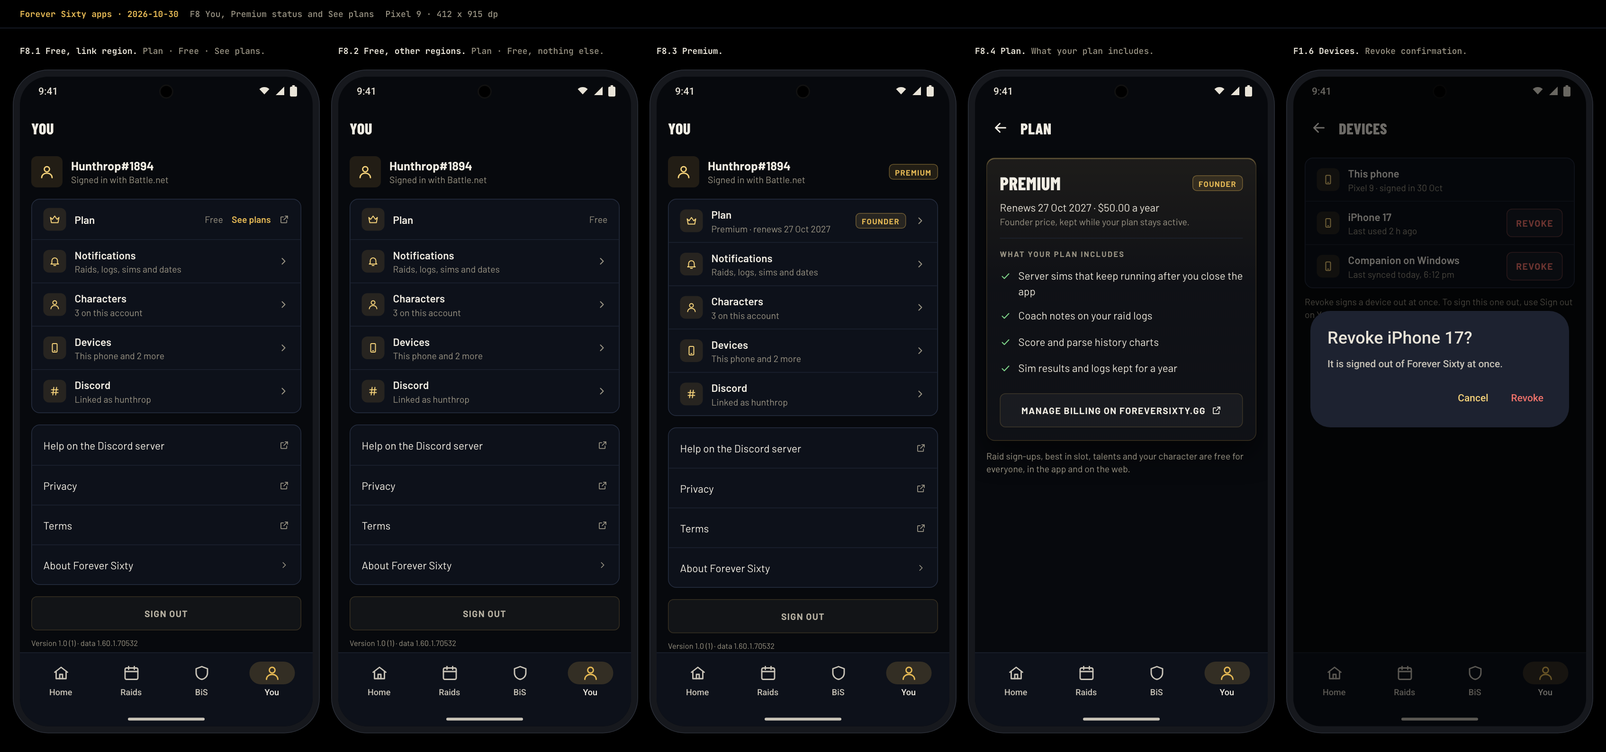
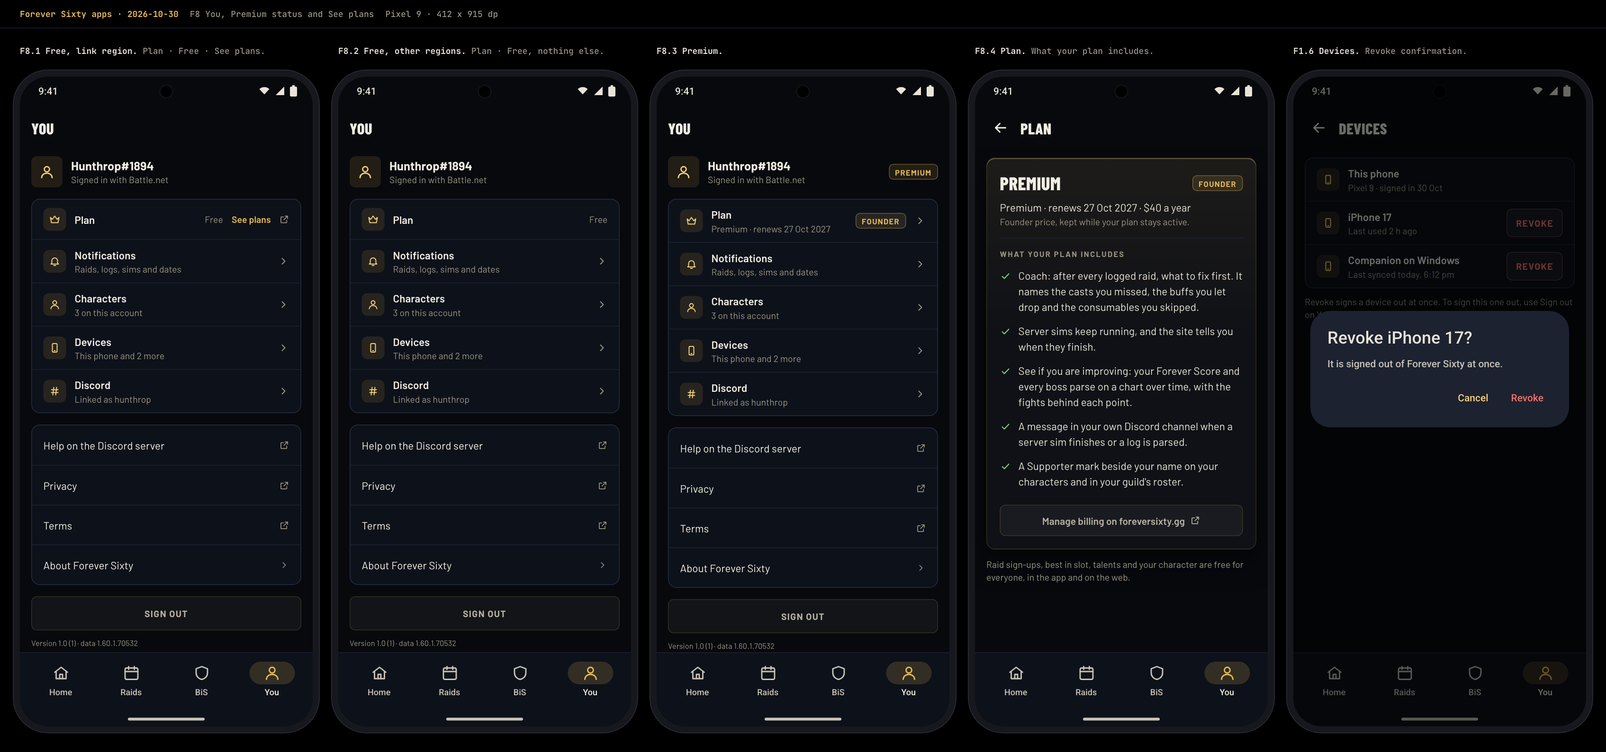
docs(mobile): F8 Premium build notes and boards, SHIP from both reviewers
Spec 5.8.1 settles the Plan row and the Plan card per premium source in the
site's words, the fail-closed link region, largest text and screen-reader
labels. The includes list is /premium's own lines after the wow-player hold.

Changed region(s): [[0.6195, 0.3392, 0.7743, 0.6476], [0.6504, 0.6784, 0.7434, 0.7093], [0.6195, 0.7401, 0.7124, 0.7709]]

diff --git a/design/mocks/2026-10-30-mobile-apps/screens_more.py b/design/mocks/2026-10-30-mobile-apps/screens_more.py
@@ -309,12 +309,11 @@ def you(plat: str, plan: str = "free-link") -> str:
 
 
 def plan_detail(plat: str, link_region: bool = True) -> str:
-    feats = ["Server sims that keep running after you close the app", "Coach notes on your raid logs", "Score and parse history charts", "Sim results and logs kept for a year"]
-    rows = "".join(f"<div style=\"display:flex;gap:10px;padding:6px 0\" class=\"t-body\"><span class=\"kill\" style=\"margin-top:3px\">{glyph('check', 16)}</span>{f}</div>" for f in feats)
-    manage = ("<span class=\"btn btn-secondary full\" style=\"margin-top:16px\">Manage billing on foreversixty.gg" + glyph('external', 14) + "</span>" if link_region
-              else "<div class=\"t-meta muted\" style=\"margin-top:16px\">Billing is managed on the web.</div>")
+    rows = "".join(f"<div style=\"display:flex;gap:10px;padding:6px 0\" class=\"t-body\"><span class=\"kill\" style=\"margin-top:3px\">{glyph('check', 16)}</span>{f}</div>" for f in FEATS)
+    manage = ("<span class=\"btn btn-secondary full\" style=\"margin-top:16px;min-height:44px;height:44px;text-transform:none;letter-spacing:0;font:600 14px Barlow,sans-serif;color:var(--nav)\">Manage billing on foreversixty.gg" + glyph('external', 14) + "</span>" if link_region
+              else "<div class=\"t-meta muted\" style=\"margin-top:16px\">Billing is managed on foreversixty.gg.</div>")
     inner = (f"<div class=\"card\" style=\"margin:10px 16px 0;padding:18px\"><div style=\"display:flex;justify-content:space-between;align-items:center\"><span class=\"cond t-h2\">Premium</span><span class=\"tag tag-gold\">Founder</span></div>"
-             f"<div class=\"t-body\" style=\"margin-top:6px\">Renews 27 Oct 2027 · $50.00 a year</div><div class=\"t-meta muted\">Founder price, kept while your plan stays active.</div>"
+             f"<div class=\"t-body\" style=\"margin-top:6px\">Premium · renews 27 Oct 2027 · $40 a year</div><div class=\"t-meta muted\">Founder price, kept while your plan stays active.</div>"
              f"<div style=\"height:1px;background:var(--line-soft);margin:14px 0\"></div><div class=\"t-micro micro\">What your plan includes</div><div style=\"margin-top:6px\">{rows}</div>{manage}</div>"
              f"<div class=\"t-meta muted pad\" style=\"margin-top:12px\">Raid sign-ups, best in slot, talents and your character are free for everyone, in the app and on the web.</div>")
     return pushed(plat, "You", "Plan", inner, "You")
@@ -341,3 +340,74 @@ def devices(plat: str, confirm: bool = False) -> str:
                        "<div style=\"display:flex;justify-content:flex-end;gap:8px;margin-top:22px;font:500 14px Roboto\"><span style=\"padding:10px 12px;color:#f5d27a\">Cancel</span><span style=\"padding:10px 12px;color:#f0736b\">Revoke</span></div></div>")
     return pushed(plat, "You", "Devices", inner, "You", overlay=overlay)
 
+
+
+# ---------- F8 build boards (spec 5.8.1) ----------
+
+FEATS = ["Coach: after every logged raid, what to fix first. It names the casts you missed, the buffs you let drop and the consumables you skipped.",
+         "Server sims keep running, and the site tells you when they finish.",
+         "See if you are improving: your Forever Score and every boss parse on a chart over time, with the fights behind each point.",
+         "A message in your own Discord channel when a server sim finishes or a log is parsed.",
+         "A Supporter mark beside your name on your characters and in your guild's roster."]
+
+
+def _chev(plat: str = "ios") -> str:
+    return f"<span class=\"chev\">{glyph('chev-right', 16)}</span>"
+
+
+def _plan_row(state: str, xl: bool) -> str:
+    """The Plan row. state: free-link, free-other, own."""
+    sub = {"free-link": "Free", "free-other": "Free", "own": "Premium · renews 27 Oct 2027"}[state]
+    founder = "<span class=\"tag tag-gold\">Founder</span>" if state == "own" else ""
+    see = f"<span class=\"t-meta gold\" style=\"font-weight:600;display:inline-flex;gap:4px;align-items:center\">See plans{glyph('external', 14)}</span>"
+    if xl:
+        lines = f"<div class=\"t-body strong\" style=\"font-weight:600\">Plan</div><div class=\"t-meta muted\">{sub}</div>"
+        lines += (f"<div style=\"margin-top:6px\">{founder}</div>" if founder else "")
+        lines += (f"<div style=\"margin-top:6px\">{see}</div>" if state == "free-link" else "")
+        trail = _chev() if state == "own" else (f"<span class=\"chev gold\">{glyph('external', 14)}</span>" if False else "")
+        return f"<div class=\"lrow\" style=\"align-items:flex-start\">{tile('crown', 32)}<div class=\"t\">{lines}</div>{trail}</div>"
+    if state == "own":
+        return (f"<div class=\"lrow\">{tile('crown', 32)}<div class=\"t\"><div class=\"t-body strong\" style=\"font-weight:600\">Plan</div><div class=\"t-meta muted\">{sub}</div></div>{founder}{_chev()}</div>")
+    trail = f"{see}" if state == "free-link" else ""
+    return (f"<div class=\"lrow\">{tile('crown', 32)}<div class=\"t t-body strong\" style=\"font-weight:600\">Plan</div><span class=\"val t-meta\">Free</span>{trail}</div>")
+
+
+def you_build(plat: str, state: str, xl: bool = False, premium_tag: bool = False) -> str:
+    rows = [("bell", "Notifications", "Raids, logs, sims and dates"), ("user", "Characters", "3 on this account"),
+            ("devices", "Devices", "This " + ("iPhone" if plat == "ios" else "phone") + " and 2 more"), ("hash", "Discord", "Linked as hunthrop")]
+    body = _plan_row(state, xl) + "".join(
+        f"<div class=\"lrow\" style=\"{'align-items:flex-start' if xl else ''}\">{tile(g, 32)}<div class=\"t\"><div class=\"t-body strong\" style=\"font-weight:600\">{lab}</div><div class=\"t-meta muted\">{sub}</div></div>{_chev()}</div>"
+        for g, lab, sub in rows)
+    more = "".join(f"<div class=\"lrow\"><div class=\"t t-body\" style=\"color:var(--strong)\">{t}</div><span class=\"chev\">{glyph('external' if ext else 'chev-right', 14)}</span></div>"
+                   for t, ext in [("Help on the Discord server", True), ("Privacy", True), ("Terms", True), ("About Forever Sixty", False)])
+    tag = "<span class=\"tag tag-gold\">Premium</span>" if premium_tag else ""
+    stack = "flex-direction:column;align-items:flex-start;" if xl else "align-items:center;"
+    head_ = (f"<div class=\"pad\" style=\"display:flex;gap:12px;{stack}margin-top:8px\">{tile('user', 44)}<div style=\"flex:1;min-width:0;max-width:100%\">"
+             f"<div class=\"t-name strong\" style=\"font-weight:700;overflow-wrap:anywhere\">{ME['battletag']}</div><div class=\"t-meta muted\">Signed in with Battle.net</div></div>{tag}</div>")
+    inner = (head_ + f"<div class=\"card quiet\" style=\"margin:16px 16px 0\">{body}</div><div class=\"card quiet\" style=\"margin:16px 16px 0\">{more}</div>"
+             "<div class=\"pad\" style=\"margin-top:16px\"><span class=\"btn btn-secondary full\" style=\"color:var(--nav)\">Sign out</span></div>")
+    top = content_top(plat)
+    title = "<div class=\"cond t-title pad\" style=\"margin-top:4px\">You</div>" if plat == "ios" else ""
+    bar = top_bar(plat, "<span class=\"cond\" style=\"font-size:22px;padding-left:4px\">You</span>" if plat == "and" else "<span></span>")
+    return device(plat, bar + f"<div style=\"padding-top:{top}px\">{title}{inner}</div>", "You", xl=xl)
+
+
+def plan_build(plat: str, source: str, link: bool) -> str:
+    """F8.4. source: own or seat."""
+    own = source == "own"
+    tag = "<span class=\"tag tag-gold\">Founder</span>" if own else ""
+    line = "Premium · renews 27 Oct 2027 · $40 a year" if own else "Premium · a seat from OLYMPUS XXVII"
+    second = ("Founder price, kept while your plan stays active." if own
+              else "Given by Hunthrop#1894. It lasts while the guild's plan does; nothing is billed to you.")
+    rows = "".join(f"<div style=\"display:flex;gap:10px;padding:6px 0\" class=\"t-body\"><span class=\"kill\" style=\"margin-top:3px\">{glyph('check', 16)}</span>{f}</div>" for f in FEATS)
+    if not own:
+        control = ""
+    elif link:
+        control = "<span class=\"btn btn-secondary full\" style=\"margin-top:16px;min-height:44px;height:44px;text-transform:none;letter-spacing:0;font:600 14px Barlow,sans-serif;color:var(--nav)\">Manage billing on foreversixty.gg" + glyph('external', 14) + "</span>"
+    else:
+        control = "<div class=\"t-meta muted\" style=\"margin-top:16px\">Billing is managed on foreversixty.gg.</div>"
+    inner = (f"<div class=\"card\" style=\"margin:10px 16px 0;padding:18px\"><div style=\"display:flex;justify-content:space-between;align-items:center\"><span class=\"cond t-h2\">Premium</span>{tag}</div>"
+             f"<div class=\"t-body\" style=\"margin-top:6px\">{line}</div><div class=\"t-meta muted\">{second}</div>"
+             f"<div style=\"height:1px;background:var(--line-soft);margin:14px 0\"></div><div class=\"t-micro micro\">What your plan includes</div><div style=\"margin-top:6px\">{rows}</div>{control}</div>"
+             "<div class=\"t-meta muted pad\" style=\"margin-top:12px\">Raid sign-ups, best in slot, talents and your character are free for everyone, in the app and on the web.</div>")
+    return pushed(plat, "You", "Plan", inner, "You")

diff --git a/design/mocks/2026-10-30-mobile-apps/gen_mobile_apps.py b/design/mocks/2026-10-30-mobile-apps/gen_mobile_apps.py
@@ -97,6 +97,14 @@ def boards(p: str) -> dict[str, tuple[str, list[str]]]:
             cell("<b>F8.3 Premium.</b>", M.you(p, "premium")),
             cell("<b>F8.4 Plan.</b> What your plan includes.", M.plan_detail(p)),
             cell("<b>F1.6 Devices.</b> Revoke confirmation.", M.devices(p, confirm=True))]),
+        f"f8-build-{p}": ("F8 build: Plan row, link region and Plan card (spec 5.8.1)", [
+            cell("<b>F8.1 Free, US.</b> Plan · Free · See plans; the row opens the browser.", M.you_build(p, "free-link")),
+            cell("<b>F8.2 Free, GB.</b> Plan · Free. No chevron, no button.", M.you_build(p, "free-other")),
+            cell("<b>F8.3 Premium, own, founder.</b> Gold Premium tag; row sub without the price.", M.you_build(p, "own", premium_tag=True)),
+            cell("<b>F8.4 Plan, US.</b> Full site line with price; Manage billing.", M.plan_build(p, "own", True)),
+            cell("<b>F8.4 Plan, GB.</b> Billing is managed on the web.", M.plan_build(p, "own", False)),
+            cell("<b>F8.4 A seat.</b> No billing control, no founder.", M.plan_build(p, "seat", True)),
+            cell("<b>F8.1 Free, US, largest text.</b> " + ("AX5" if p == "ios" else "Font scale 2.0") + ": the row stacks, See plans on its own line.", M.you_build(p, "free-link", xl=True))]),
         f"xl-{p}": ("Largest text: " + ("iOS AX5" if p == "ios" else "Android font scale 2.0"), [
             cell("<b>XL.1 Home.</b> Gains move under the name; three rows.", H.home(p, xl=True)),
             cell("<b>XL.2 Raid page.</b> Segments become a 2 x 2 grid.", R.raid_detail(p, xl=True)),

diff --git a/design/specs/2026-10-30-mobile-apps.md b/design/specs/2026-10-30-mobile-apps.md
@@ -651,15 +651,12 @@ Pushed from Home.
 | Account | Link region (F8.1) | Elsewhere (F8.2) |
 |---|---|---|
 | Free | `Plan` · `Free` · gold `See plans` with the external glyph; the row opens `https://foreversixty.gg/premium` in the default browser (iOS `openURL`, Android `ACTION_VIEW`), not an in-app web view | `Plan` · `Free`. No chevron, not a button, no screen behind it. No other Premium word anywhere in the app |
-| Premium (any source) | `Plan` · `Premium · renews {date}` (or the site's other plan lines) · `Founder` tag when founder; pushes F8.4 | Same row and screen; F8.4's billing button becomes the meta line `Billing is managed on the web.` |
+| Premium (any source) | `Plan` · `Premium · renews {date}` (or the site's other plan lines) · `Founder` tag when founder; pushes F8.4 | Same row and screen; F8.4's billing button becomes the meta line `Billing is managed on foreversixty.gg.` |
 
 ### F8.4 Plan
-- Card: `Premium` (`h2`) with `Founder`; the plan line (`Renews 27 Oct 2027 · $50.00 a year`, the site's `accountPlanCopy`); the founder line.
+- Card: `Premium` (`h2`) with `Founder`; the site's full plan line (`Premium · renews 27 Oct 2027 · $40 a year`, §5.8.1); the founder line.
 - `micro` `What your plan includes`, then kill-checked lines from the entitlements that are true:
-  - `Server sims that keep running after you close the app`;
-  - `Coach notes on your raid logs`;
-  - `Score and parse history charts`;
-  - `Sim results and logs kept for a year`.
+  - /premium's own Premium-column lines for the flags that are true (§5.8.1).
 - Link region only: secondary `Manage billing on foreversixty.gg`, which opens the browser.
 - A seat reads `A seat from {guild}` and `Given by {name}. It lasts while the guild's plan does; nothing is billed to you.`.
 - Footer meta: `Raid sign-ups, best in slot, talents and your character are free for everyone, in the app and on the web.`
@@ -669,6 +666,86 @@ Everything in premium-entry spec §2 holds, plus:
 - No Premium push, ever.
 - No Premium mention outside a link region.
 - `See plans` appears in at most two places: the Plan row and the free F5.4 result line.
+
+## 5.8.1 F8 build notes (2026-10-31)
+
+Settles what §5.8 left to the builders. Boards: `design/mocks/2026-10-30-mobile-apps/renders/f8-build-ios.png` and `f8-build-and.png`. Where this section and §5.8 or §14 C3 differ, this section wins.
+
+**The contract as shipped.** `GET /v1/app/config` answers `web_checkout_regions` (ISO alpha-2, upper case, one list for both apps) and `features.premium_link`. §14 C3's `plans_link.ios` (alpha-3) is superseded. iOS reads `Storefront.current?.countryCode` (alpha-3) and converts it to alpha-2 with Foundation's `Locale` region (`Locale(identifier: "und_" + alpha3).region?.identifier`, `und_USA` gives `US`); a code Foundation cannot resolve is not a link region. The plans URL is the constant `https://foreversixty.gg/premium`; the billing URL is `https://foreversixty.gg/account#plan`.
+
+### Link region (one rule, both apps)
+Link region is true only when all three hold: `features.premium_link` is true, the config has loaded (the last good cached config counts; a first launch with no cache and no answer does not), and the storefront country, converted to alpha-2, is in `web_checkout_regions`. Anything else (config unreachable with no cache, storefront unreadable, flag off, unknown country) is not a link region. Fail closed.
+
+### Which plan, and its words
+Port `premiumSource` from `web/src/lib/account/plan-line.ts` exactly: a live billing row (status `active`, `trialing` or `past_due`) that is not a grant is `own`, or `own_then_seat` when `seat.starts_at` is in the future; a grant is `source == "grant"`, or no `source` and no `amount_cents` or no `interval`; then a live billing row alone is `grant`; then `seat`; then `entitlements.server_sims == true` is `fallback`; else `none`. Dates are `D Mon YYYY` in the phone's time zone (`27 Oct 2027`). Prices are the site's `formatCents`: whole dollars carry no cents (`$40 a year`, `$5 a month`), others carry two (`$12.50 a month`). `$50.00` appears nowhere.
+
+**Row sub line versus card.** The Plan row sub line carries the site's plan line without its price segment. The F8.4 card carries the site's full line, price included. The reason: at 360 pt the row also holds the Founder tag and the chevron, and the price is a billing fact that belongs with the billing button.
+
+| premiumSource | Row sub line (You) | F8.4 card body (full site line, then the muted second line) | Founder | Billing control on F8.4 |
+|---|---|---|---|---|
+| `own`, renewing, with price | `Premium · renews 27 Oct 2027` | `Premium · renews 27 Oct 2027 · $40 a year` | tag if `billing.founder` | link region: `Manage billing on foreversixty.gg`; elsewhere: `Billing is managed on foreversixty.gg.` |
+| `own`, renewing, no price | `Premium · renews 27 Oct 2027` | same, no price segment | same | same |
+| `own`, cancelling | `Premium · ends 27 Oct 2027` | `Premium · ends 27 Oct 2027` | same | same |
+| `own_then_seat` | `Premium · ends 27 Oct 2027` | `Premium · ends 27 Oct 2027 · then a seat from OLYMPUS XXVII` | same | same |
+| `grant`, with end | `Premium · granted until 27 Oct 2027` | same, then `Given by Forever Sixty. It ends on its own; nothing is billed to you.` | none | none, and no managed line |
+| `grant`, no end | `Premium · granted, no end date` | same, then `Given by Forever Sixty. Nothing is billed to you.` | none | none |
+| `seat` | `Premium · a seat from OLYMPUS XXVII` | same, then `Given by Hunthrop#1894. It lasts while the guild's plan does; nothing is billed to you.` | none | none |
+| `fallback` | `Premium` | no body line | none | none |
+| `none` | see Free below | | | |
+
+- The card's `h2` is `Premium` for every Premium source. The founder line `Founder price, kept while your plan stays active.` sits under the body, only when the `Founder` tag shows. The tag shows only for `own` and `own_then_seat`.
+- Manage billing is a quiet button: 1 pt `line` outline, `nav` text, sentence case at the `meta` weight 600, 44 high, never the gold fill and never upper case. It is the least loud control on the card; the `Founder` tag and the plan line outrank it.
+- Manage billing is for `own` and `own_then_seat` in a link region and nowhere else. Grant, seat and fallback never get a billing button, and never a `Billing history` button, in the app.
+- The ended-seat `Come back at {price}` line is not in the app (it is a purchase prompt).
+- The site's `Cancel anytime in Manage billing.` is not carried: the app's button has different words.
+- Row and F8.4 exist for every Premium source in every region. Free elsewhere: row `Plan` · `Free`, no chevron, not a button, no screen, no other Premium word anywhere. Free in a link region: `Plan` · `Free` · gold `See plans` with the external glyph; the whole row is the button.
+- The account head's gold `Premium` tag shows for every source except `none`, in every region.
+
+### What your plan includes
+Under the `micro` `What your plan includes`, one kill-checked line per entitlement flag that is true, in /premium's order and in /premium's words (`web/src/lib/billing/plans-page-copy.ts`, the Premium column; wow-player HOLD 2026-10-31): `log_coach` (the Coach line), `server_sims` (`Server sims keep running, and the site tells you when they finish.`), `history` (the Forever Score chart line), `notifications` (the Discord message line), `supporter_mark` (the Supporter mark line). The earlier app-only lines, including `Sim results and logs kept for a year`, are dropped. `web/src/lib/mobile/premium-copy.test.ts` fails when a `plan.feature.*` string is not a sentence of a /premium line. A false flag has no line. If none is true, the heading and list are absent; the card still shows. The footer `plan.freeForAll` always shows. Outside a link region the managed line reads `Billing is managed on foreversixty.gg.` (plain text, not a link).
+
+### Largest text (iOS AX5, Android font scale 2.0)
+The Plan row stops being one line. The tile stays 32 and top-aligned; the text column stacks `Plan`, then the sub line (`Free` or the plan line), then the `Founder` tag, then `See plans` with its glyph on its own line, left-aligned with the text. All of it wraps; nothing truncates, no ellipsis, and the price and `See plans` are never cut. The chevron stays trailing, aligned to the first line. Row min height 56, grows with content; the whole row stays one tap target. Frame 7 on the boards.
+
+### Screen-reader labels
+One element per row, the label read as a unit. A `·` in a line reads as a comma.
+
+| State | iOS VoiceOver label (trait Button unless noted) | Android TalkBack contentDescription |
+|---|---|---|
+| Free, link region | `Plan, Free, See plans, opens in browser` | same, Role.Button |
+| Free, elsewhere | `Plan, Free` (static text, no Button trait) | same, no role |
+| Premium, any source | `Plan, {sub line}` plus `, Founder` when tagged, e.g. `Plan, Premium, renews 27 Oct 2027, Founder` | same, Role.Button |
+| Manage billing | `Manage billing on foreversixty.gg, opens in browser` | same, Role.Button |
+
+### New copy keys
+Every string is the site's; none adds a Premium call to action. §13's `plan.*` lines row expands to:
+
+| Key | String |
+|---|---|
+| `plan.line.renews` | `Premium · renews {date}` |
+| `plan.line.renewsPrice` | `Premium · renews {date} · {price}` |
+| `plan.line.ends` | `Premium · ends {date}` |
+| `plan.line.endsThenSeat` | `Premium · ends {date} · then a seat from {guild}` |
+| `plan.line.grantUntil` | `Premium · granted until {date}` |
+| `plan.line.grantNoEnd` | `Premium · granted, no end date` |
+| `plan.line.seat` | `Premium · a seat from {guild}` |
+| `plan.line.fallback` | `Premium` |
+| `plan.given.grantUntil` | `Given by Forever Sixty. It ends on its own; nothing is billed to you.` |
+| `plan.given.grantNoEnd` | `Given by Forever Sixty. Nothing is billed to you.` |
+| `plan.given.seat` | `Given by {name}. It lasts while the guild's plan does; nothing is billed to you.` |
+| `plan.price.yearly` / `.monthly` | `{amount} a year` / `{amount} a month` |
+| `a11y.plan.seePlans` | `Plan, Free, See plans, opens in browser` |
+| `a11y.plan.free` | `Plan, Free` |
+| `a11y.plan.row` | `Plan, {line}` and `Plan, {line}, Founder` |
+| `a11y.plan.manage` | `Manage billing on foreversixty.gg, opens in browser` |
+
+`plan.line.*` with the price segment is the row's source; the row drops ` · {price}`. `Premium · renews {date}` in §13 stays as the row key.
+
+### Built wrong in F1 (fix in F8)
+`YouSummary.planLine` and the Android twin treat every billing row as own (a grant reads `renews`), never read `seat`, `fallback` or `none`, show no `See plans`, no chevron, no F8.4. The account head has no Premium tag. Replace the single `billing.map(planLine)` with the `premiumSource` port above.
+
+### Acceptance screenshots
+Both platforms, 402 x 874 and 412 x 915: F8.1 free US, F8.2 free GB, F8.3 own founder, F8.4 US and GB, F8.4 seat, F8.1 at AX5 / 2.0; plus focus-visible (Android keyboard) and pressed on the See plans row, and a 360 pt-wide capture of F8.3 and F8.4 with the longest guild name.
 
 # 6. Notifications: the catalogue as delivered
 
@@ -1184,9 +1261,9 @@ Keys live in one string catalogue per app: `Localizable.xcstrings` on iOS and `s
 | `you.version` | `Version {v} ({build}) · data {data}` | |
 | `about.notAffiliated` | `Not affiliated with or endorsed by Blizzard Entertainment.` | site footer |
 | `plan.includes` | `What your plan includes` | |
-| `plan.feature.serverSims` / `.coach` / `.history` / `.retention` | `Server sims that keep running after you close the app` / `Coach notes on your raid logs` / `Score and parse history charts` / `Sim results and logs kept for a year` | |
+| `plan.feature.coach` / `.serverSims` / `.history` / `.discord` / `.supporter` | /premium's Premium column lines (`apps/shared/copy/en.json`; §5.8.1) | site `plans-page-copy` |
 | `plan.manage` | `Manage billing on foreversixty.gg` | |
-| `plan.managedOnWeb` | `Billing is managed on the web.` | |
+| `plan.managedOnWeb` | `Billing is managed on foreversixty.gg.` | |
 | `plan.freeForAll` | `Raid sign-ups, best in slot, talents and your character are free for everyone, in the app and on the web.` | |
 | `plan.*` lines | `Premium · renews {date}`, `Premium · ends {date}`, `A seat from {guild}`, `Given by {name}. It lasts while the guild's plan does; nothing is billed to you.`, `Founder`, `Founder price, kept while your plan stays active.` | site `accountPlanCopy` |
 | `devices.title` | `Devices` | |

diff --git a/design/reviews/2026-10-31-mobile-premium/player-verdict-mock.md b/design/reviews/2026-10-31-mobile-premium/player-verdict-mock.md
@@ -1,0 +1,36 @@
+# Player verdict on the F8 Premium mock (iOS and Android boards, spec 5.8.1)
+
+VERDICT: HOLD
+
+## What works
+- A player reads the Plan row at a glance: "Plan / Free" or "Premium · renews 27 Oct 2027", with the Founder tag beside it.
+- The free GB row ("Plan · Free", no chevron, no button) is complete and quiet, not broken. Nothing is pushy: See plans is one small gold link, and no Premium word shows outside a link region.
+- The seat card ("Given by ... nothing is billed to you") answers "am I being charged?". Dates (27 Oct 2027) and "$40 a year" read like the site's.
+- The free-for-everyone footer is a good reassurance line. Largest-text frame stacks cleanly.
+
+## Must-fix
+1. The "What your plan includes" lines are not the website's words. The Premium column on /premium (web/src/lib/billing/plans-page-copy.ts) says: the Coach "what to fix first" line, "Close the tab. Server sims keep running, and the site tells you when they finish.", "See if you are improving: your Forever Score and every boss parse on a chart over time...", the Discord message, and the Supporter mark. The mock invents "Coach notes on your raid logs", "Score and parse history charts", and "Sim results and logs kept for a year". Owner rule: the app's Premium rules match the website exactly. Reuse the site's wording (shortened only with the site's own terms), or drop the invented lines.
+2. "Sim results and logs kept for a year" appears nowhere on the site's Premium page. A player will compare the two and ask which is true. Either put it on the site first or remove it from the app.
+3. "Score and parse history charts" shows ticked in every Premium frame. The site's 2026-10-24 changelog marked history charts as coming in November. Confirm the history entitlement flag is genuinely live; if not, the tick promises a feature the player cannot open. The kill-check must be tied to a real, working surface.
+
+## Shoulds
+- Frame 5 (GB): "Billing is managed on the web." is tiny muted text at the bottom of the card. It is fine, but a Premium player in GB cannot tell where on the web. Consider "Billing is managed on foreversixty.gg." as plain text, not a link (no link is the owner's rule, a domain name is not a call to action).
+- Seat frame: the card never says which guild plan or what the seat includes beyond the four lines; the site's Supporter mark and the Discord message lines are absent. Make the list match the site's order and completeness.
+- Free players never see what free includes; the "free for everyone" footer only lives on the Plan screen they cannot reach. Acceptable per the no-nagging rule, but the free GB row gives no hint it is intentional. Accept as is.
+- Founder line "Founder price, kept while your plan stays active." is a price fact, not a prompt; fine, but in GB the price is in dollars. Confirm that is what a UK buyer was actually charged.
+- The "Premium" gold tag at the head plus "Founder" on the row plus "PREMIUM" h2 on the card say Premium three times in one flow. Harmless, but the head tag alone is enough.
+- Manage billing button is all caps in a boxed style; it reads as the loudest element on the Plan card. Keep it secondary.
+
+---
+
+# Re-check (boards re-rendered, f8-build-ios.png and f8-build-and.png)
+
+VERDICT: SHIP
+
+Must-fix 1 and 2 closed: the includes list is now the five lines of /premium's Premium column, in its order (coach, server sims keep running, Forever Score chart, Discord message, Supporter mark). Wording matches plans-page-copy.ts; the "kept for a year" line is gone. Must-fix 3 closed on the evidence given: the live /premium page lists history with no month, and the tick only shows when the history entitlement is true. The GB managed line now names foreversixty.gg as plain text, and Manage billing is a quiet outline button. A player reading the site and the app sees the same promises.
+
+Shoulds (not blocking):
+- The Discord-message line shows on the seat card and on a Premium account with no Discord linked. The Discord row says "Linked as huntrhop" in the mock, so it reads true there; for an unlinked player add nothing, but make sure the Discord screen explains the link is what turns it on.
+- A seat holder is shown the Supporter mark line; confirm seats really get the mark, since the site lists it for Premium only.
+- Prices are Stripe USD for every buyer; fine, but a GB player sees "$40 a year" with no currency note. The site does the same, so this matches.
+- Premium still reads three times in one flow (head tag, row, card heading); harmless.

diff --git a/design/reviews/2026-10-31-mobile-premium/ux-verdict-mock.md b/design/reviews/2026-10-31-mobile-premium/ux-verdict-mock.md
@@ -1,0 +1,29 @@
+VERDICT: SHIP
+
+Reviewed: `design/mocks/2026-10-30-mobile-apps/renders/f8-build-{ios,and}.png` (7 frames each) and `f8-you-{ios,and}.png`, against spec §5.8.1, after the wow-player HOLD of 2026-10-31.
+
+## Player must-fixes, closed
+1. Includes lines are /premium's own Premium-column words in /premium's order (Coach, server sims, history, Discord message, Supporter mark). The mock shows all five on the own and seat frames; the spec ties each to its entitlement flag and hides a line whose flag is false.
+2. `Sim results and logs kept for a year` is gone from the spec (§5.8, §5.8.1, §13) and from every frame, including the older `f8-you` boards.
+3. The history tick shows only when `entitlements.history` is true. The flag is the server's, so the app promises nothing the account cannot open. Whether the history surface is live in November is the owner's data question, not a layout one; if it is not, the API must send `history: false` and the line disappears with no app change.
+
+## Player shoulds, taken
+- Managed line reads `Billing is managed on foreversixty.gg.` as plain muted text, no link (frame F8.4 GB).
+- Manage billing is now a quiet button: 1 pt outline, `nav` text, sentence case, 44 high. It is the quietest control on the card; the Founder tag and plan line outrank it (frame F8.4 US).
+- The head `Premium` tag, row `Founder` tag and card `Premium` h2 stay. The head tag is the one signal that shows when the Plan row is scrolled away; the h2 names the card. Not changed.
+- UK charge currency: not a layout question; the line renders what the API sends (`$40 a year` on the site's `formatCents`). Raised to the owner, not settled here.
+
+## Region by region
+- F8.1 free US: `Plan · Free · See plans` with the external glyph, one gold link, nothing else Premium. Pass.
+- F8.2 free GB: `Plan · Free`, no chevron, no button, no other Premium word. Pass.
+- F8.3 own founder: gold head tag, row sub without price, Founder tag and chevron, no overflow at 402 or 412. Pass.
+- F8.4 US and GB: full site line with price, founder line, five includes lines that wrap without clipping, footer. Pass.
+- F8.4 seat: no billing control, no founder, given-by line. Pass.
+- F8.1 largest text: row stacks (Plan, Free, See plans own line), BattleTag wraps under the tile on iOS instead of cutting (fixed in this pass). Pass.
+
+## Polish, not blocking
+- The five includes lines are long at 402 pt (two to three lines each); the card runs about 520 pt tall and still fits above the tab bar on both devices.
+- iOS AX5 frame clips Notifications under the tab bar by design: the screen scrolls.
+
+## Build acceptance still owed
+Real-device captures from spec §5.8.1 "Acceptance screenshots": both platforms, the seven frames, plus pressed and focus-visible on the See plans row and a 360 pt capture of F8.3 and F8.4 with the longest guild name.
